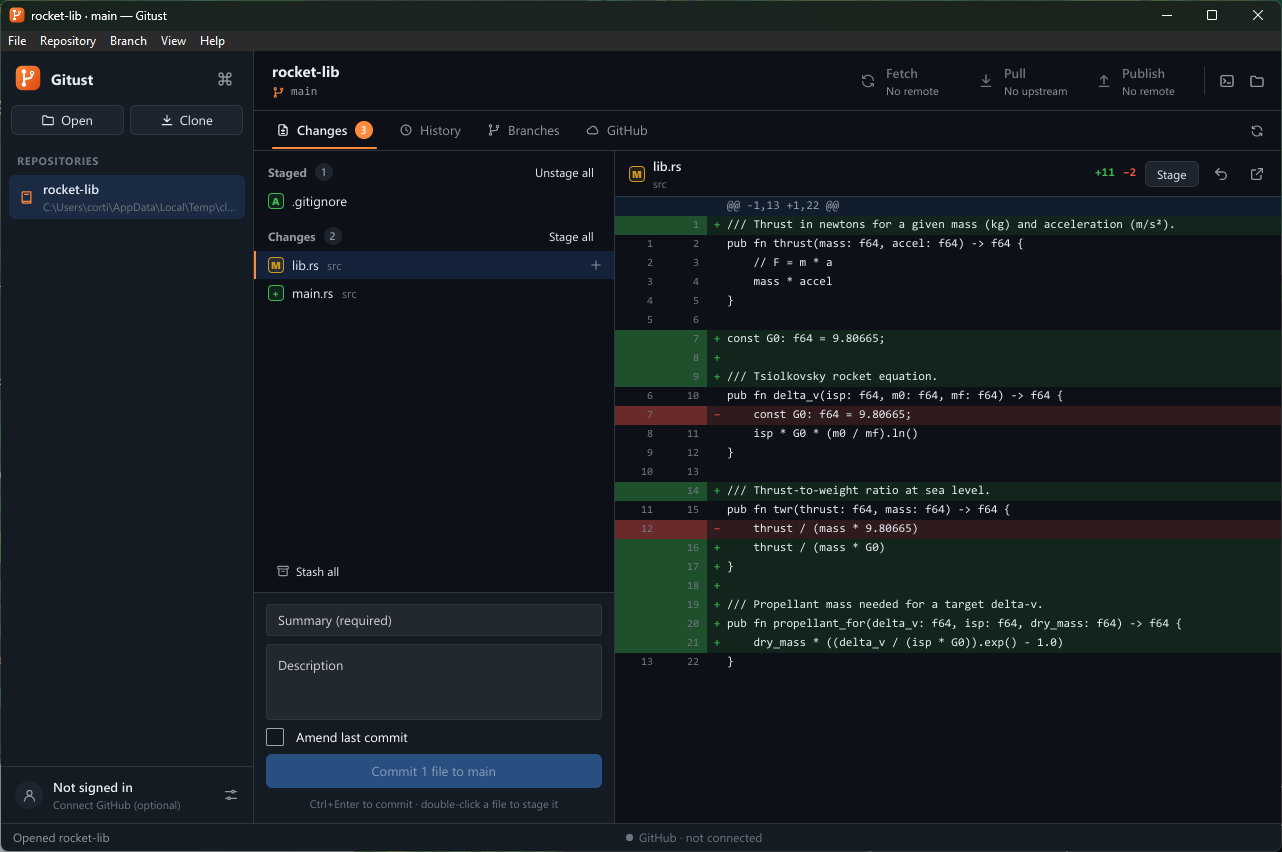
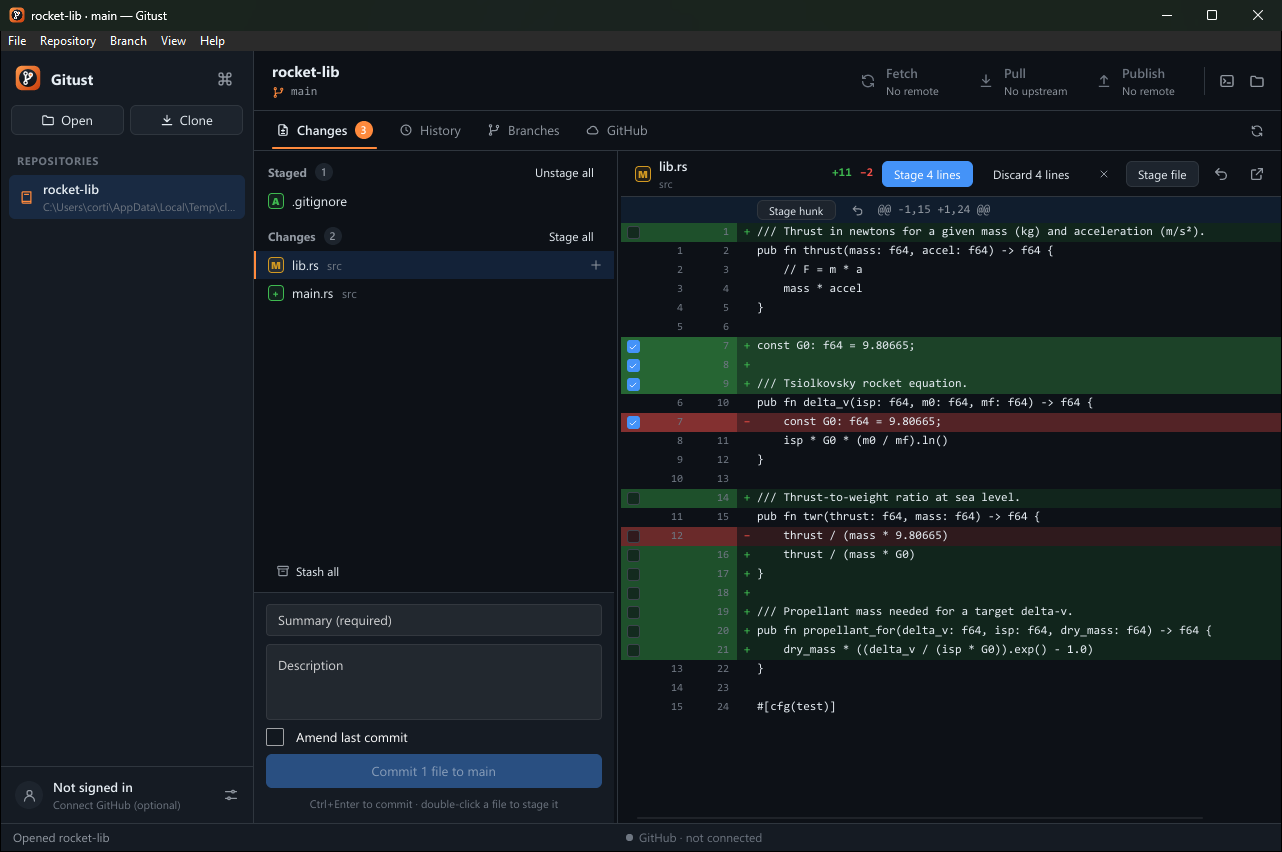
New screenshots; Dependabot, RustSec audit, issue templates, SECURITY and CONTRIBUTING

diff --git a/CONTRIBUTING.md b/CONTRIBUTING.md
@@ -1,0 +1,37 @@
+# Contributing to Gitust
+
+Thanks for helping! Bug reports, ideas and pull requests are all welcome.
+
+## Build and test
+
+```sh
+cargo run                 # debug build
+cargo test                # unit + integration tests (needs `git` on PATH)
+cargo clippy --all-targets -- -D warnings
+cargo fmt
+```
+
+Linux also needs `libfontconfig1-dev libxkbcommon-dev`. CI runs fmt, clippy and the
+tests on Windows, Linux and macOS for every pull request.
+
+## How the code is organised
+
+- `ui/*.slint` is only the view. All state and decisions live in Rust, and
+  `ui/state.slint` is the single contract between the two.
+- `src/git.rs` reads repositories with libgit2. It must never run a program.
+- `src/ops.rs` holds **every** change to a repository, through the Git CLI with an
+  explicit argv (never a shell string) and paths over stdin as literal pathspecs.
+  New operations go here, with tests that run them against real temporary
+  repositories, including file names with spaces, a leading `-`, Unicode and glob
+  characters.
+- `src/patch.rs` builds hunk/line staging patches; it is covered by randomized
+  tests that compare `git apply` results with an independent model. Keep it that way.
+- The UI thread never touches Git, disk or network.
+
+## Pull requests
+
+- Keep them focused; describe what changes for the user.
+- Anything that can lose work (discard, checkout, reset, amend…) must ask first
+  and needs a test showing what it leaves untouched.
+- By contributing you agree that your work is dual licensed under MIT OR
+  Apache-2.0, like the rest of the project.

diff --git a/SECURITY.md b/SECURITY.md
@@ -1,0 +1,16 @@
+# Security
+
+Please report vulnerabilities **privately** through
+[GitHub's security advisories](https://github.com/Layfate/Gitust/security/advisories/new),
+not as a public issue. Include what an attacker controls (for example a
+repository someone is tricked into opening) and what they can achieve.
+
+Areas that matter most:
+
+- anything that makes Gitust run a program, or overwrite or delete files, from a
+  repository the user only opened or browsed;
+- staging, discarding or committing different content than the user selected;
+- leaking the GitHub token (it should only ever live in the OS credential vault).
+
+How Gitust defends against these is described under "Security notes" in the README.
+Only the latest release receives fixes.
